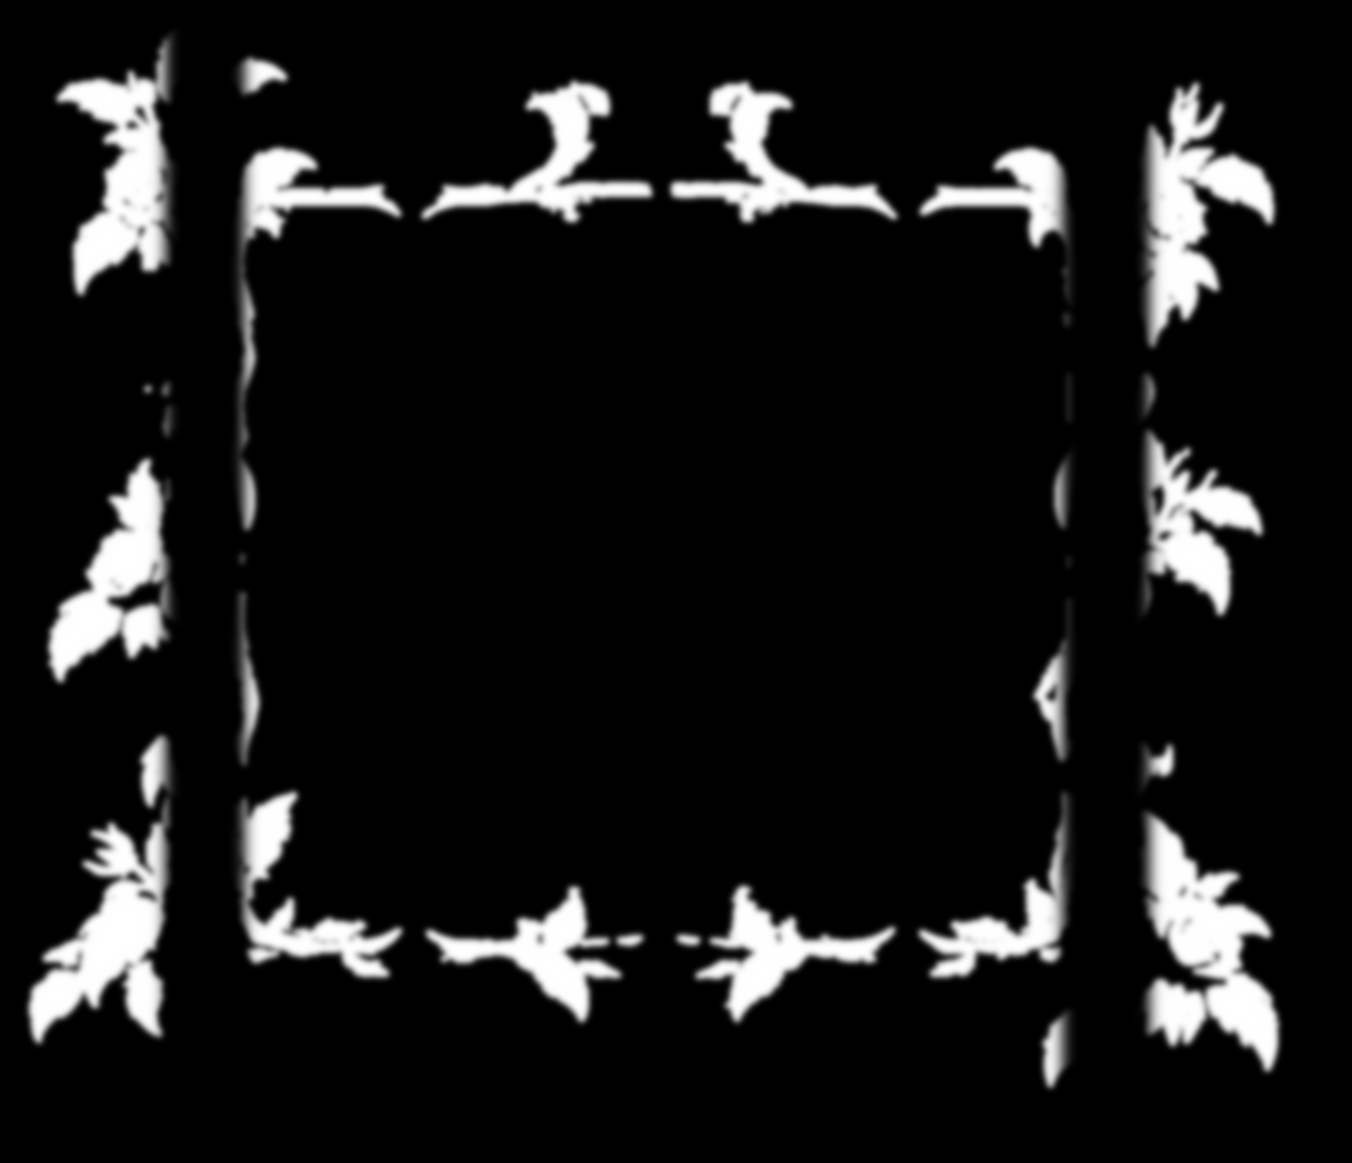
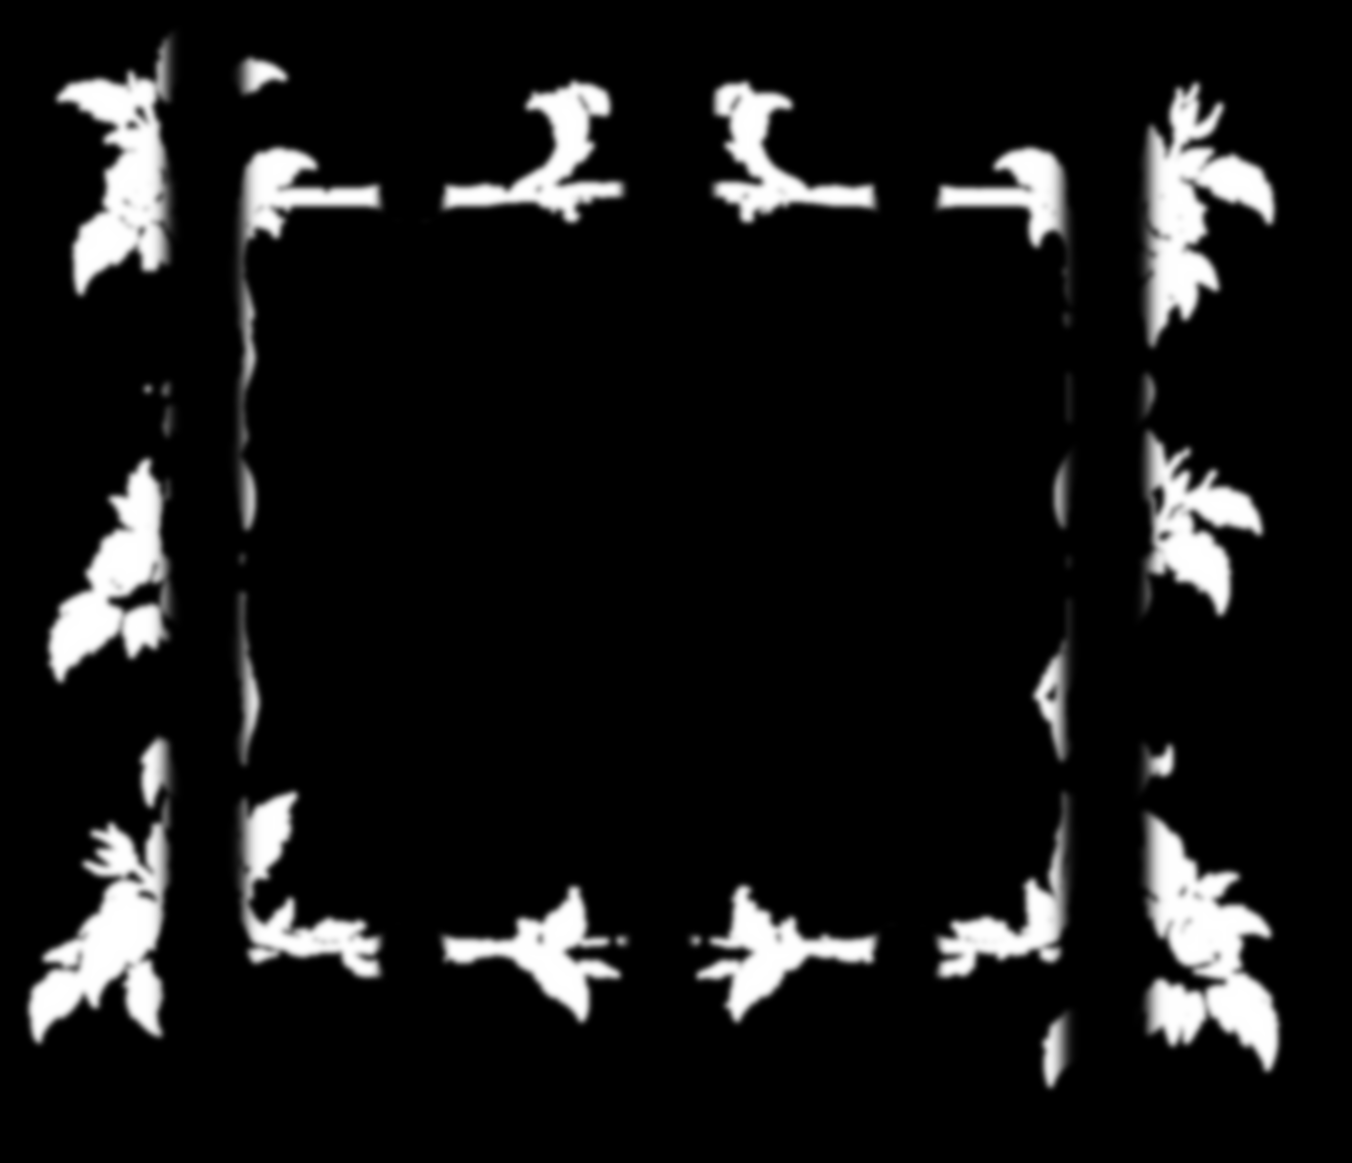
fix: frame gems excluded from the wind mask so the pulse overlays do not make the frame jump

diff --git a/docs/midnight-lounge-character-animation.md b/docs/midnight-lounge-character-animation.md
@@ -547,3 +547,7 @@ Fixed after the guideline review (verified against a local mock RGS, a productio
 
 - Reels 3 / 4 / 5 (n = 1 / 2 / 3) roll `extension` = n x `extStep` longer (cap 100 %): step 5 % small win, 10 / 15 / 20 / 28 / 33 % for big / mega / super / max / world record; the teaser counts as big; turbo x0.4.
   The strip gets `travelCells x (1 + extension) / slowFactor` cells, so the longer roll is also the slower one (slow-down steps unchanged).
+
+## Frame gems no longer jump (wind mask)
+
+The pulsing gem overlays (`GemPulse`) are static copies of the gems, but the wind mask let six gems (crest ruby, the diamonds beside it at the top and bottom) sway with the frame. When an overlay appeared or vanished the gem jumped a few pixels. `slot_frame_wind_mask.png` is now black (feathered, 12 px margin) over all 16 gems, so they stay still and the overlays line up exactly.
